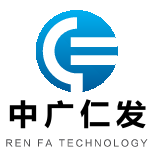
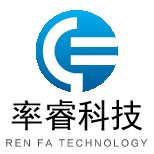
图片修改：assets，static

Changed region(s): [[0.0519, 0.6234, 0.961, 0.8571]]

diff --git a/README.md b/README.md
@@ -1,6 +1,8 @@
 # js-test
 
 ## public
+* 提交后，等待3m；
+* 图片修改：assets，static
 * 清除缓存：cookie; test: 我的收藏
 
 ## http-server
